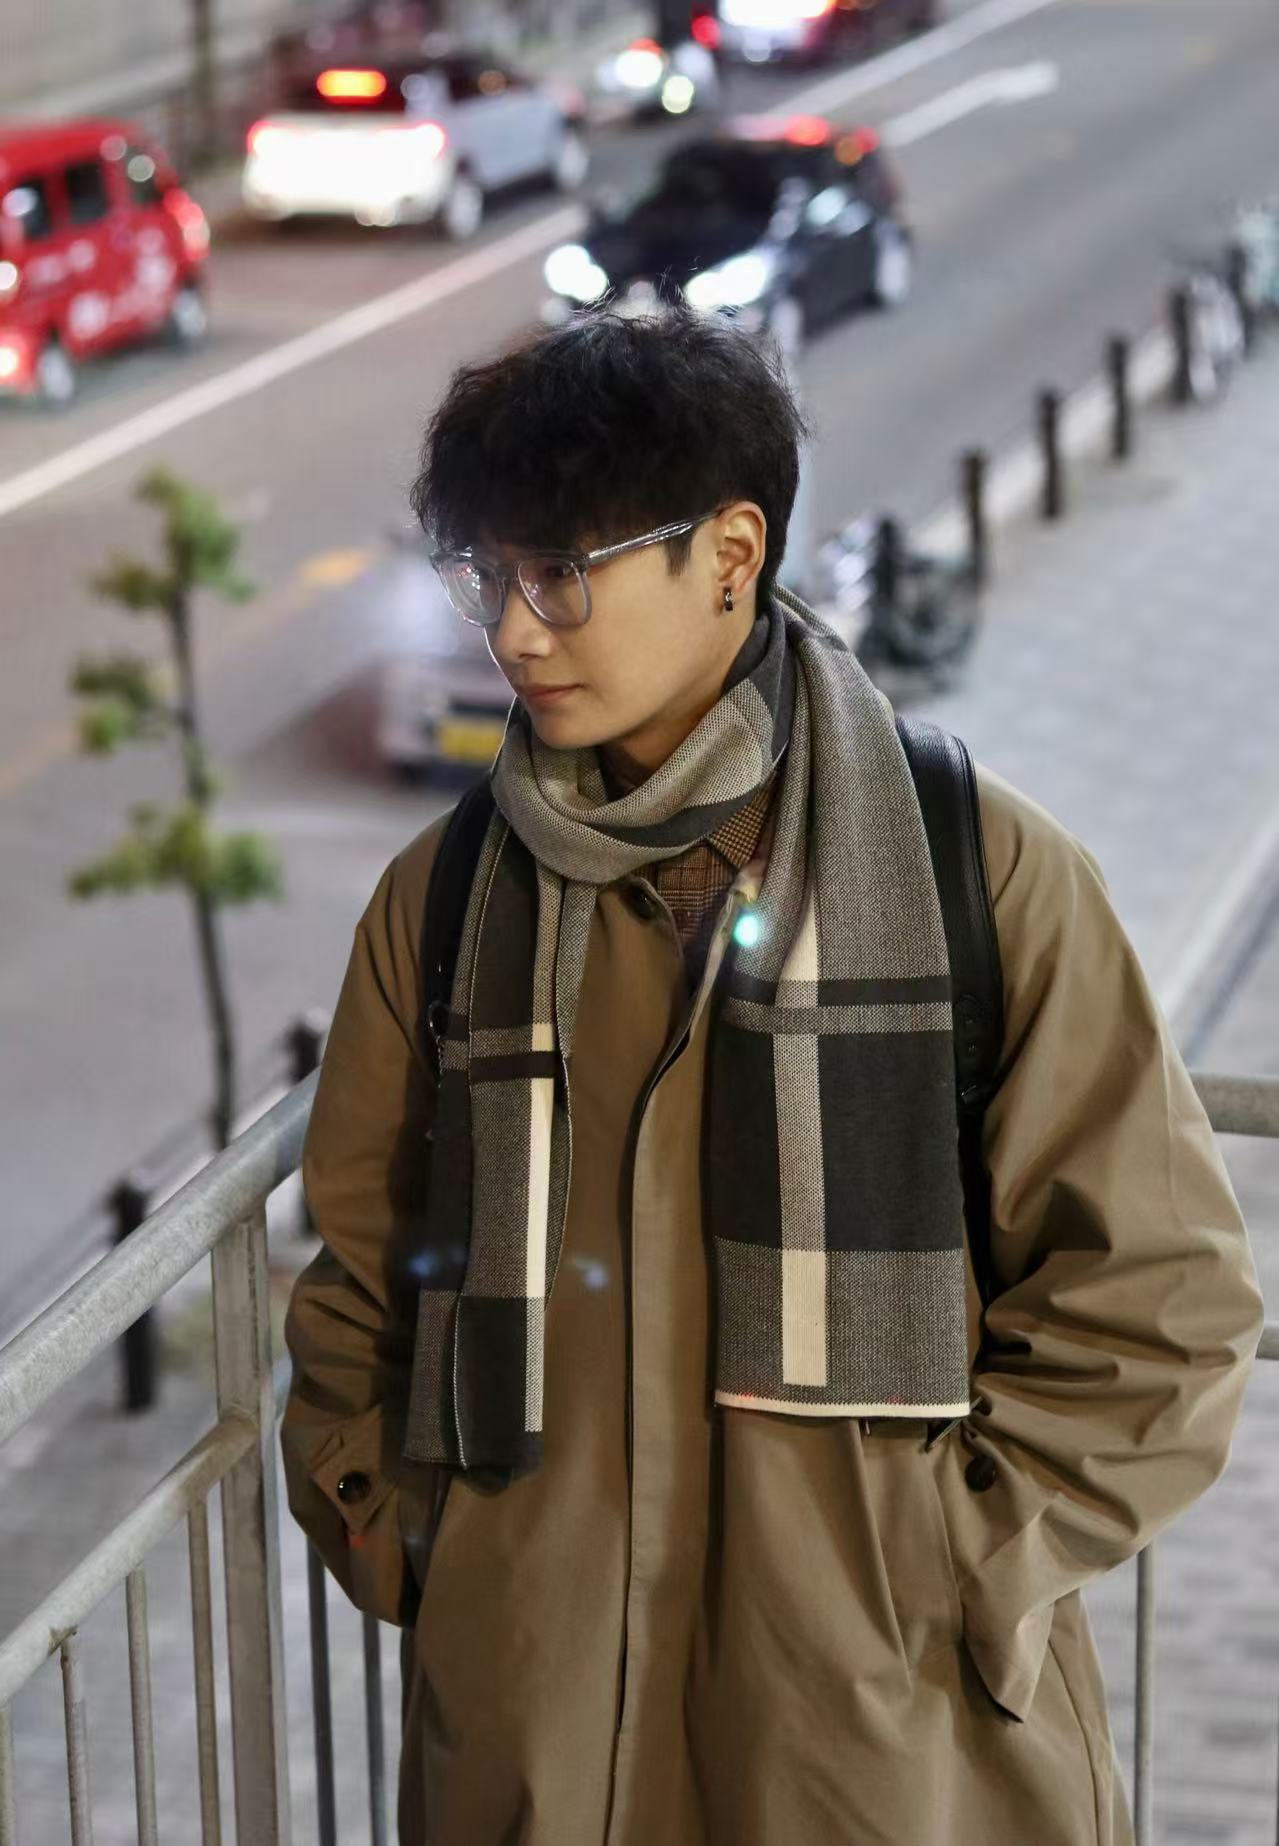
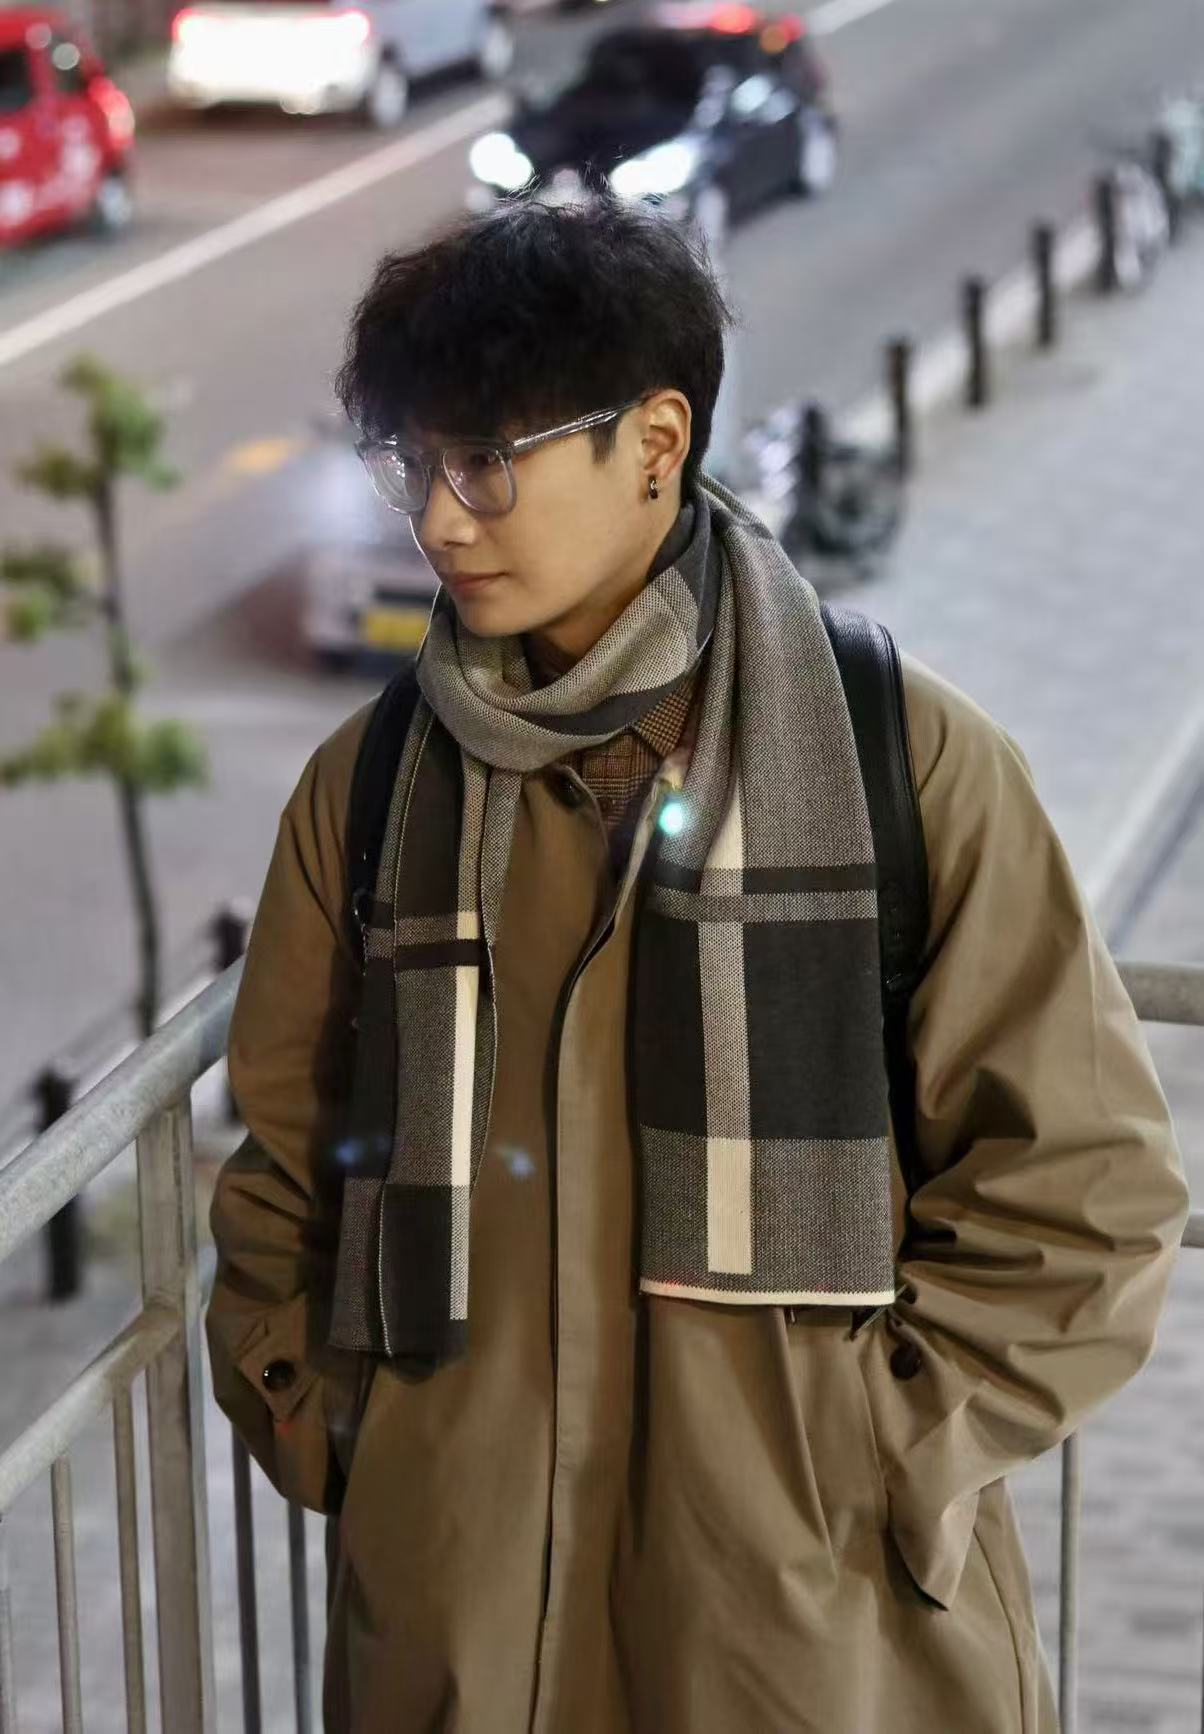
update

diff --git a/_pages/about.md b/_pages/about.md
@@ -14,16 +14,16 @@ profile:
     <p>83 Tat Chee Avenue, Sham Shui Po District, Kowloon</p>
     <p>Hong Kong SAR</p>
 
-selected_papers: true # includes a list of papers marked as "selected={true}"
+selected_papers: false # includes a list of papers marked as "selected={true}"
 social: true # includes social icons at the bottom of the page
 
 announcements:
-  enabled: true # includes a list of news items
+  enabled: false # includes a list of news items
   scrollable: true # adds a vertical scroll bar if there are more than 3 news items
   limit: 5 # leave blank to include all the news in the `_news` folder
 
 latest_posts:
-  enabled: true
+  enabled: false
   scrollable: true # adds a vertical scroll bar if there are more than 3 new posts items
   limit: 3 # leave blank to include all the blog posts
 ---
